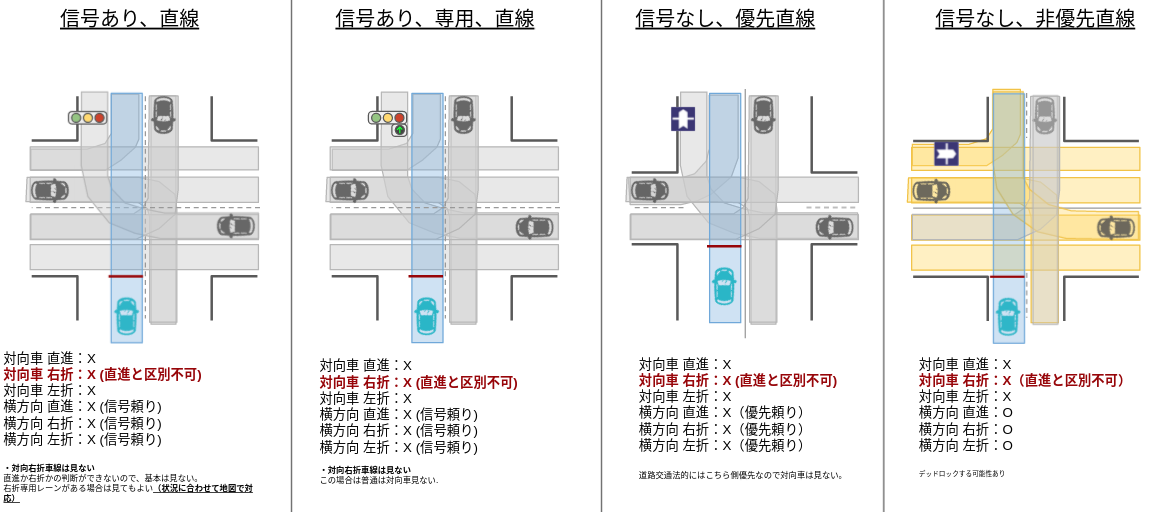
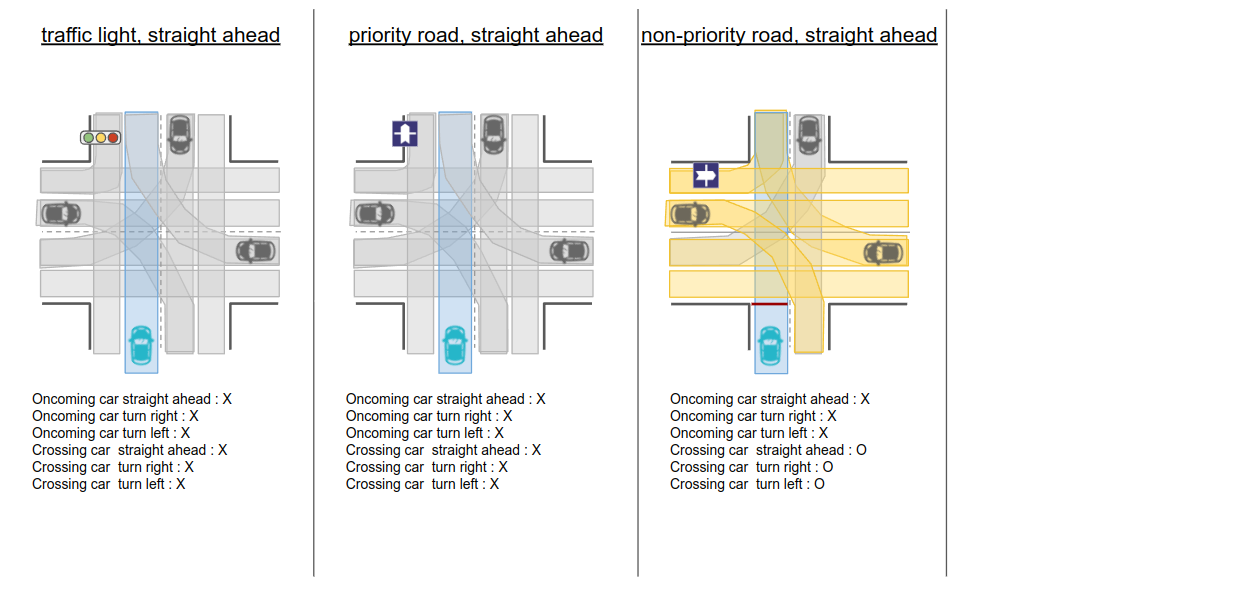
docs(intersection_module): fix intersection design images (autowarefoundation/autoware_universe#1007)
* docs(intersection_module): fix intersection design images

* docs(intersection_module): fix intersection design title

* docs(intersection_module): add "Note"

* docs(intersection_module): adjusted the headings

diff --git a/planning/behavior_velocity_planner/intersection-design.md b/planning/behavior_velocity_planner/intersection-design.md
@@ -1,6 +1,6 @@
-# Intersection
+## Intersection
 
-## Role
+### Role
 
 Judgement whether a vehicle can go into an intersection or not by a dynamic object information, and planning a velocity of the low-down/stop.
 This module is designed for rule-based intersection velocity decision that is easy for developers to design its behavior. It generates proper velocity for intersection scene.
@@ -9,17 +9,17 @@ In addition, the external users / modules (e.g. remote operation) to can interve
 
 ![brief](./docs/intersection/intersection.svg)
 
-## Activation Timing
+### Activation Timing
 
 This function is activated when the attention lane conflicts with the ego vehicle's lane.
 
-## Limitations
+### Limitations
 
 This module allows developers to design vehicle velocity in intersection module using specific rules. This module is affected by object detection and prediction accuracy considering as stuck vehicle in this intersection module.
 
-## Inner-workings / Algorithms
+### Inner-workings / Algorithms
 
-### How To Select Attention Target Objects
+#### How To Select Attention Target Objects
 
 Objects that satisfy all of the following conditions are considered as target objects (possible collision objects):
 
@@ -31,7 +31,7 @@ Objects that satisfy all of the following conditions are considered as target ob
 - Not being **in the same lane as the ego vehicle**.
   - To avoid judging the vehicle ahead as a collision target. This logic needs to be improved.
 
-### How to Define Attention Lanes
+#### How to Define Attention Lanes
 
 Target objects are limited by lanelets to prevent unexpected behavior. A lane that satisfies the following conditions is defined as an "Attention Lane" and used to define the target object.
 
@@ -42,11 +42,13 @@ See the following figures to know how to create an attention area and its ration
 
 ![intersection_straight](docs/intersection/intersection_straight.png)
 
-![intersection_right](docs/intersection/intersection_right.png)
+![intersection_turn_right](docs/intersection/intersection_turn_right.png)
 
-![intersection_left](docs/intersection/intersection_left.png)
+![intersection_turn_left](docs/intersection/intersection_turn_left.png)
 
-### Collision Check and Crossing Judgement
+Note: the case `traffic light, turn right only` is not currently implemented.
+
+#### Collision Check and Crossing Judgement
 
 The following process is performed for the attention targets to determine whether the ego vehicle can cross the intersection safely. If it is judged that the ego vehicle cannot pass through the intersection with enough margin, it will insert the stopping speed on the stop line of the intersection.
 
@@ -65,21 +67,21 @@ The following process is performed for the attention targets to determine whethe
 
 (\*2) If the collision is detected, the state transits to "stop" immediately. On the other hand, the collision judgment must be clear for a certain period (default : 2.0[s]) to transit from "stop" to "go" to prevent to prevent chattering of decisions.
 
-### Stop Line Automatic Generation
+#### Stop Line Automatic Generation
 
 The driving lane is complemented at a certain intervals (default : 20 [cm]), and the line which is a margin distance (default : 100cm) in front of the attention lane is defined as a stop line. (Also the length of the vehicle is considered and the stop point is set at the base_link point in front of the stop lane.)
 
-### Pass Judge Line
+#### Pass Judge Line
 
 To avoid a rapid braking, in case that a deceleration more than a threshold (default : 0.5[G]) is needed, the ego vehicle doesn’t stop. In order to judge this condition, pass judge line is set a certain distance (default : 0.5 \* v_current^2 / a_max) in front of the stop line.
 To prevent a chattering, once the ego vehicle passes this line, “stop” decision in the intersection won’t be done any more.
 To prevent going over the pass judge line before the traffic light stop line, the distance between stop line and pass judge line become 0m in case that there is a stop line between the ego vehicle and an intersection stop line.
 
-### Stuck Vehicle Detection
+#### Stuck Vehicle Detection
 
 If there is any object in a certain distance (default : 5[m]) from the end point of the intersection lane on the driving lane and the object velocity is less than a threshold (default 3.0[km/h]), the object is regarded as a stuck vehicle. If the stuck vehicle exists, the ego vehicle cannot enter the intersection.
 
-## Module Parameters
+### Module Parameters
 
 | Parameter                                     | Type   | Description                                                                   |
 | --------------------------------------------- | ------ | ----------------------------------------------------------------------------- |
@@ -98,7 +100,7 @@ If there is any object in a certain distance (default : 5[m]) from the end point
 | `intersection/min_predicted_path_confidence`  | double | [-] minimum confidence value of predicted path to use for collision detection |
 | `merge_from_private_road/stop_duration_sec`   | double | [s] duration to stop                                                          |
 
-## How To Tune Parameters
+### How To Tune Parameters
 
 - The time to change state form `Stop` to `GO` is too long.
   - Change `state_transit_margin_time` to lower value. Be careful if this margin is too small then vehicle is going to change state many times and cause chattering.
@@ -107,7 +109,7 @@ If there is any object in a certain distance (default : 5[m]) from the end point
 - The speed in intersection is too slow
 - Change `intersection_velocity` to higher value.
 
-## Flowchart
+### Flowchart
 
 ```plantuml
 @startuml
@@ -192,17 +194,17 @@ stop
 
 NOTE current state is treated as `STOP` if `is_entry_prohibited` = `true` else `GO`
 
-## Known Limits
+### Known Limits
 
 - This module generate intersection stop line and ignoring lanelet automatically form lanelet map , however if you want to set intersection stop line and ignoring lanelet manually you need to tag `right_of_way` and `yield` to all conflicting lanes properly.
 
 ---
 
-## How to Set Lanelet Map fot Intersection
+### How to Set Lanelet Map fot Intersection
 
 ![intersection_fig](docs/intersection/intersection_fig.png)
 
-### Set a turn_direction tag (Fig. 1)
+#### Set a turn_direction tag (Fig. 1)
 
 IntersectionModule will be activated by this tag. If this tag is not set, ego-vehicle don’t recognize the lane as an intersection. Even if it’s a straight lane, this tag is mandatory if it is located within intersection.
 
@@ -212,10 +214,10 @@ Values of `turn_direction` must be one of “straight”(no turn signal), “rig
 
 Lanes within intersections must be defined as a single Lanelet. For example, blue lane in Fig.3 cannot be split into 2 Lanelets.
 
-### Explicitly describe a stop position [RoadMarking] (Optional) (Fig. 2)
+#### Explicitly describe a stop position [RoadMarking] (Optional) (Fig. 2)
 
 As a default, IntersectionModule estimates a stop position by the crossing point of driving lane and attention lane. But there are some cases like Fig.2 in which we would like to set a stop position explicitly. When a `stop_line` is defined as a `RoadMarking` item in the intersection lane, it overwrites the stop position. (Not only creating `stop_line`, but also defining as a `RoadMaking` item are needed.)
 
-## Exclusion setting of attention lanes [RightOfWay] (Fig.3)
+### Exclusion setting of attention lanes [RightOfWay] (Fig.3)
 
 By default, IntersectionModule treats all lanes crossing with the registered lane as attention targets (yellow and green lanelets). But in some cases (e.g. when driving lane is priority lane or traffic light is green for the driving lane), we want to ignore some of the yield lanes. By setting `RightOfWay` of the `RegulatoryElement` item, we can define lanes to be ignored. Register ignored lanes as “yield” and register the attention lanes and driving lane as “right_of_way” lanelets in `RightOfWay` RegulatoryElement (For an intersection with traffic lights, we need to create items for each lane in the intersection. Please note that it needs a lot of man-hours.)